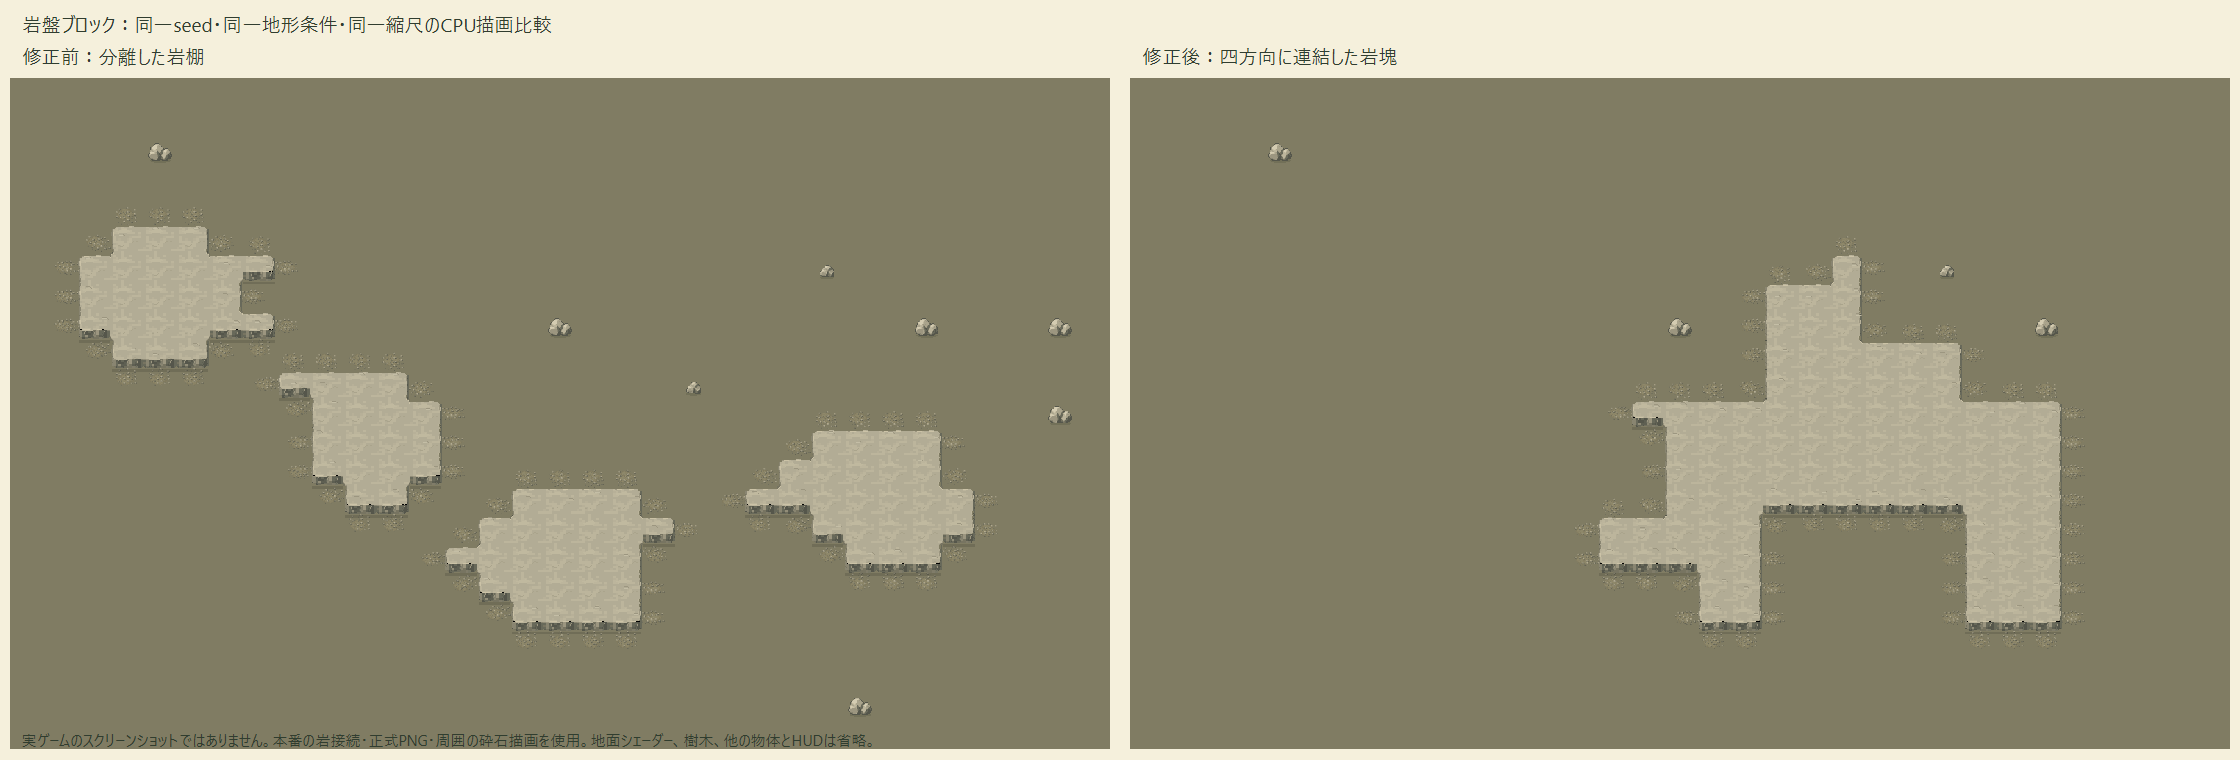
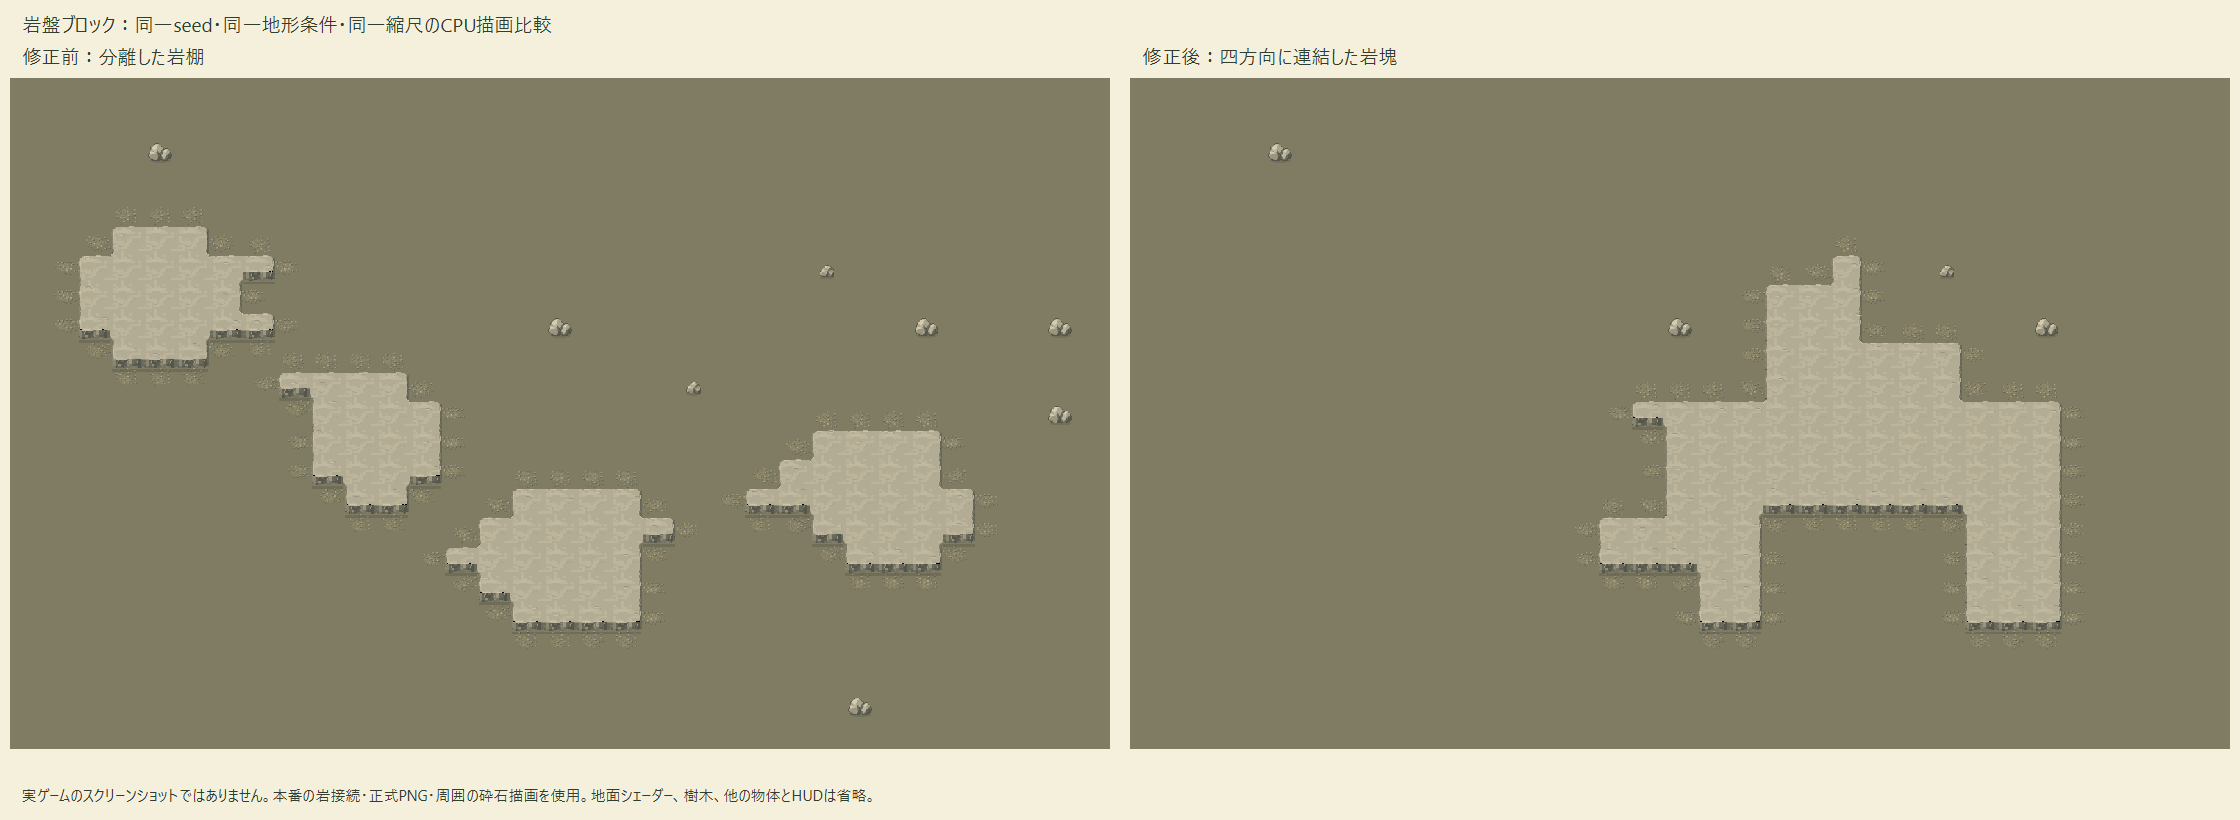
Record connected rock EXE delivery and CPU comparison limits

diff --git a/projects/sporehollow/PROJECT_STATE.md b/projects/sporehollow/PROJECT_STATE.md
@@ -2,7 +2,7 @@
 
 ## 建築選択hover・連続岩塊（2026-10-14）
 
-選択中の建築ボタンはhover中も薄緑。新規地形の白い岩セルは、従来の総数を保ちつつ密集した四方向連結の岩塊へ配置。採掘・衝突・大型岩山の処理は継続。関連181項目に合格。ゲーム自動起動は行わず、CPU比較画像を確認。実画面／GPUの最終確認は未実施。EXEの配布状態は[報告・配布記録](review/current/connected-rocks/REPORT.md)を参照。以下は過去記録。
+選択中の建築ボタンはhover中も薄緑。新規地形の白い岩セルは、従来の総数を保ちつつ密集した四方向連結の岩塊へ配置。採掘・衝突・大型岩山の処理は継続。関連181項目に合格。ゲーム自動起動は行わず、CPU比較画像を確認。実画面／GPUの最終確認は未実施。既存の最新開発版EXEへc71fda5を反映済み。[報告・配布記録](review/current/connected-rocks/REPORT.md)を参照。以下は過去記録。
 
 
 

diff --git a/projects/sporehollow/TASKS.md b/projects/sporehollow/TASKS.md
@@ -2,7 +2,7 @@
 
 ## 建築選択hover・連続岩塊（2026-10-14）
 
-選択中の建築ボタンはhover中も薄緑。新規地形の白い岩セルは、従来の総数を保ちつつ密集した四方向連結の岩塊へ配置。採掘・衝突・大型岩山の処理は継続。関連181項目に合格。ゲーム自動起動は行わず、CPU比較画像を確認。実画面／GPUの最終確認は未実施。EXEの配布状態は[報告・配布記録](review/current/connected-rocks/REPORT.md)を参照。以下は過去記録。
+選択中の建築ボタンはhover中も薄緑。新規地形の白い岩セルは、従来の総数を保ちつつ密集した四方向連結の岩塊へ配置。採掘・衝突・大型岩山の処理は継続。関連181項目に合格。ゲーム自動起動は行わず、CPU比較画像を確認。実画面／GPUの最終確認は未実施。既存の最新開発版EXEへc71fda5を反映済み。[報告・配布記録](review/current/connected-rocks/REPORT.md)を参照。以下は過去記録。
 
 
 

diff --git a/projects/sporehollow/review/current/connected-rocks/REPORT.md b/projects/sporehollow/review/current/connected-rocks/REPORT.md
@@ -40,3 +40,5 @@
 ビルド・既存EXE更新結果は DELIVERY.json に記録。入口は従来の「最新開発版.lnk」1本。通常ゲームを自動起動しない。正式素材納品SHA: 3229d2655e35e82d178577cdd8acbbe66e9be4f8。
 
 ローディング39項目も合格（関連検証と計220項目）。ロード用テストの終了時にObjectDB 1406 instances警告が出た。今回の変更による実プレイの蓄積とは断定できず、実ゲームの長時間安定性は未検証。
+
+配布完了：実装 c71fda5 を既存EXEへ反映。SHA-256: 60F56945EFC9A5B2C9F75C6D0B2C966799AB108AA81F469B0603166EC0202BC5。EXE本体128,129,672 bytes（旧版比+2,928 bytes）。書出成功・ファイルハッシュ一致を確認。EXE自体の起動は今回行っていない。候補EXEと今回所有の検証scratchは削除し、旧EXEの退避コピーは残していない。通常起動は従来の「最新開発版.lnk」。今回の岩配置は新規開始時に適用される。
